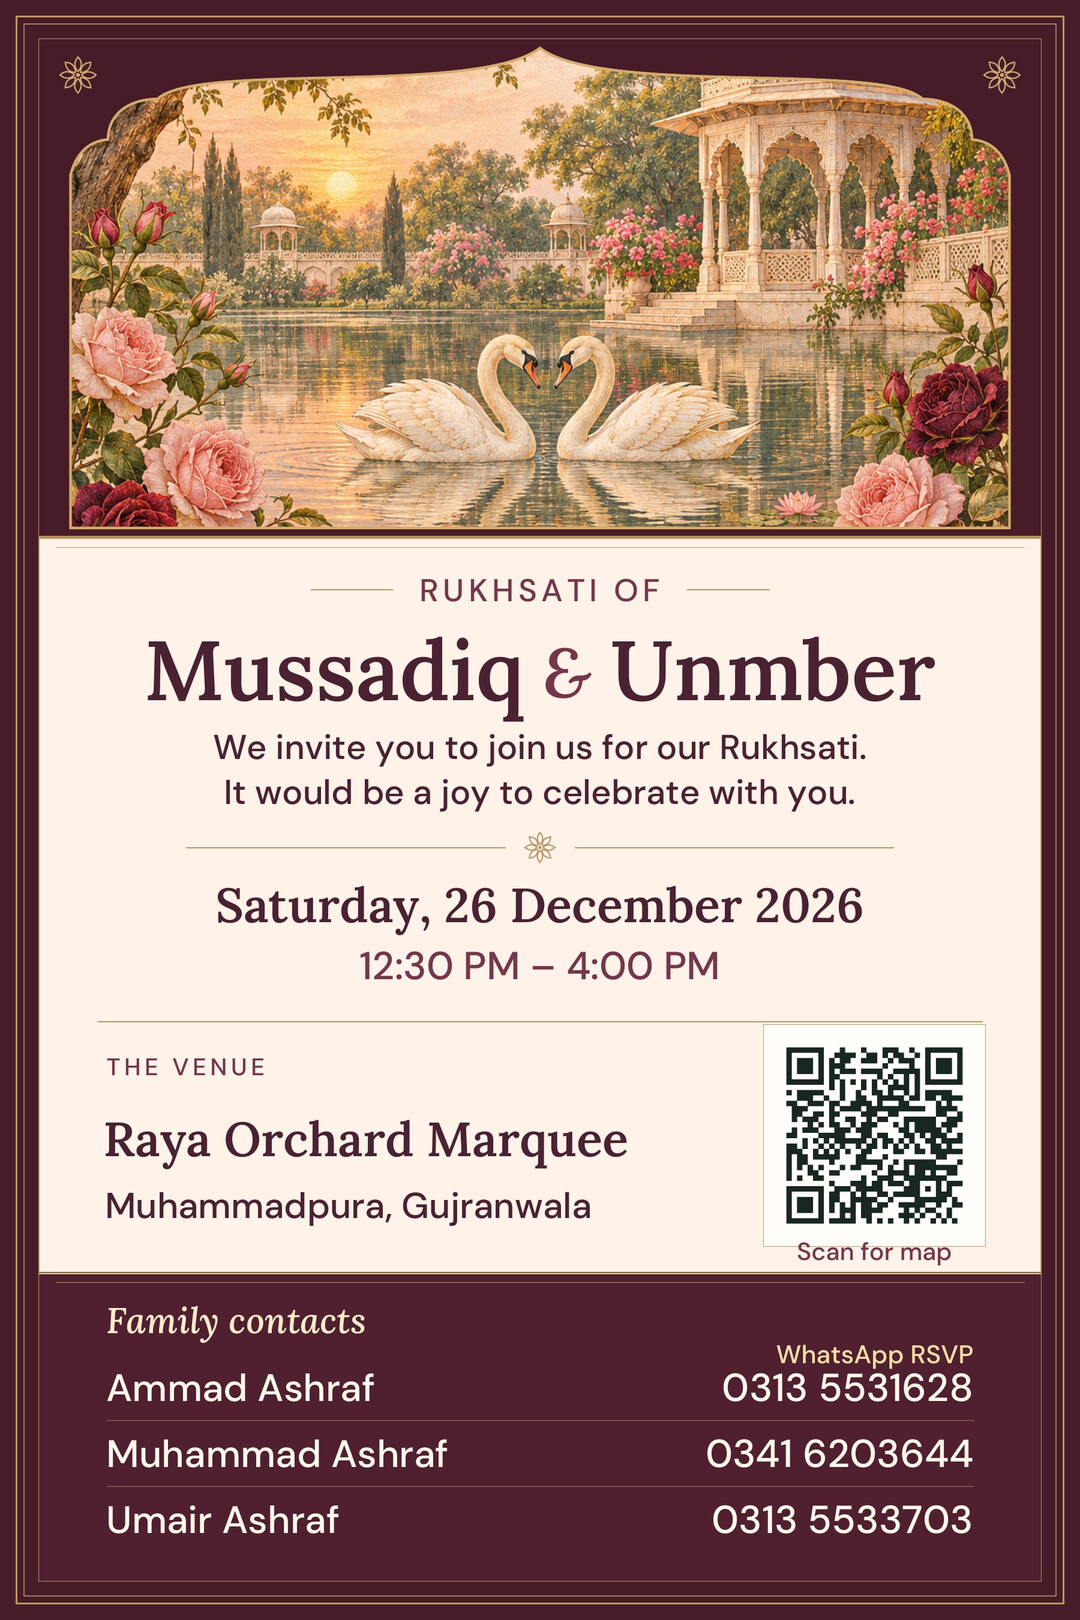
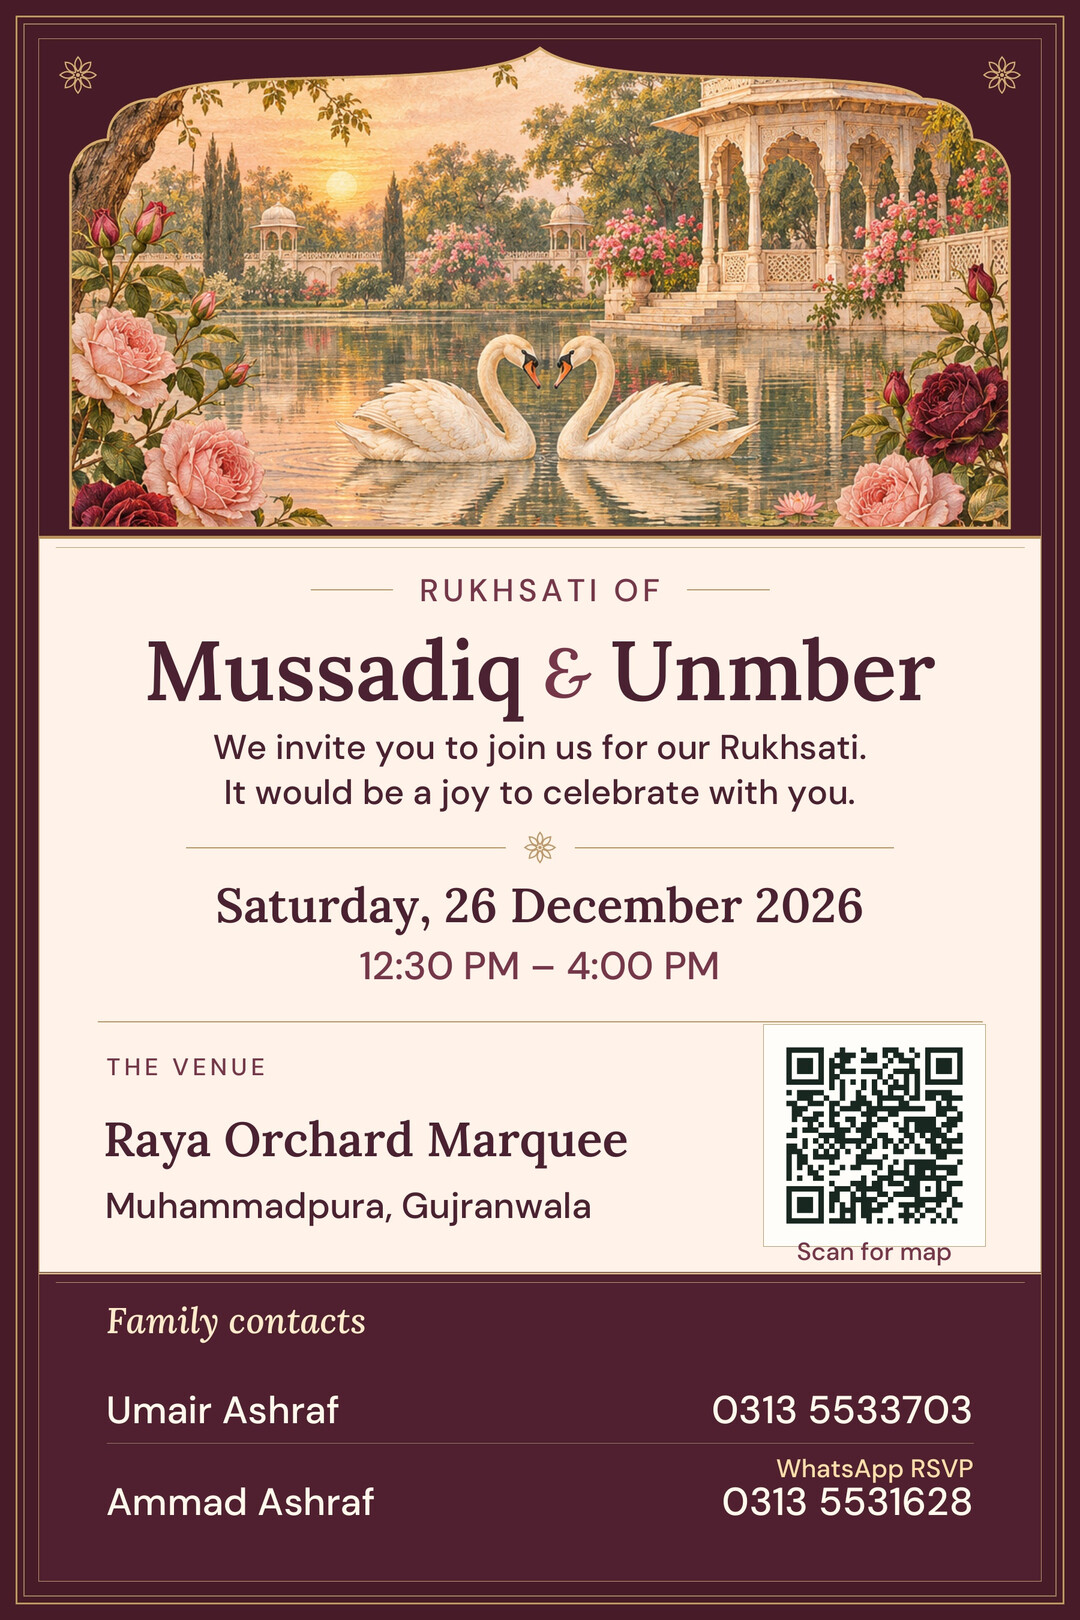
Remove dates from Walima opening, match Rukhsati lettering and update family contacts

Changed region(s): [[0.0917, 0.8333, 0.4278, 0.9568], [0.6417, 0.8333, 0.9167, 0.9568]]

diff --git a/floral.css b/floral.css
@@ -68,7 +68,7 @@ body { font-family: var(--sans) }
   transform-origin: center top;
 }
 .envelope-letter span { font: italic 500 18px var(--serif) }
-.envelope-letter b { font: 650 clamp(22px,6vw,34px)/1.12 var(--serif) }
+.envelope-letter b { font: italic 560 clamp(22px,6vw,34px)/1.12 var(--serif) }
 .seal-hit {
   position: absolute;
   z-index: 4;
@@ -106,14 +106,9 @@ body { font-family: var(--sans) }
 .envelope-title {
   color: #fff1d7;
   text-shadow: 0 2px 10px #062019;
-  font: 600 clamp(23px,6.5cqw,34px)/1.12 var(--serif);
+  font: italic 560 clamp(24px,6.6cqw,34px)/1.16 var(--serif);
 }
 .envelope-title i { color: #ffce8c }
-.envelope-date {
-  color: #ffdfaa;
-  text-shadow: 0 2px 8px #062019;
-  font: 620 clamp(14px,3.55vw,16px)/1.25 var(--sans);
-}
 .cover .tap-caption {
   position: static;
   display: inline-flex;
@@ -216,7 +211,7 @@ body { font-family: var(--sans) }
 .invitation .hero-words { top: 18%; left: 10%; right: 10% }
 .invitation .hero h1, .section-title, .arch-letter .section-title, .closing .section-title, .countdown .section-title {
   font-family: var(--serif);
-  font-weight: 650;
+  font-weight: 590;
   -webkit-text-stroke: 0;
 }
 .invitation .hero h1 { font-size: clamp(42px,11vw,64px); line-height: .95; letter-spacing: -.035em; margin-top: 10px }
@@ -229,8 +224,9 @@ body { font-family: var(--sans) }
 .date-section, .reception { background: #fff5e6 }
 .date-section .instruction, .letter-copy, .venue address { font: 520 1rem/1.58 var(--sans) }
 .date-section .section-title, .arch-letter .section-title, .closing .section-title, .countdown .section-title, .venue h2 {
-  font-size: clamp(29px,8vw,45px);
-  letter-spacing: -.033em;
+  font-size: clamp(25px,6.7cqw,34px);
+  line-height: 1.19;
+  letter-spacing: -.022em;
 }
 .signature { font: italic 600 clamp(19px,5.5vw,28px)/1.2 var(--serif); -webkit-text-stroke: 0; color: var(--rose) }
 .countdown { background: var(--pine) }
@@ -246,7 +242,6 @@ body { font-family: var(--sans) }
 @media (orientation:landscape) and (max-height:500px) {
   .envelope-caption { top:61%; gap:4px }
   .envelope-title { font-size:clamp(13px,5vh,22px) }
-  .envelope-date { display: none }
 }
 @media (prefers-reduced-motion:reduce) {
   .butterfly { display:none }
@@ -266,20 +261,13 @@ body { font-family: var(--sans) }
   max-height: none;
 }
 .walima .hero-words { top: 19%; left: 8%; right: 8% }
-.walima .hero-intro { font: italic 590 clamp(23px,6.1cqw,31px)/1.18 var(--serif) }
+.walima .hero-intro { font: italic 570 clamp(24px,6.6cqw,34px)/1.16 var(--serif) }
 .walima .hero h1 {
-  font-size: clamp(45px, min(14.2cqw, 9.35svh), 74px);
-  line-height: .96;
+  font: italic 560 clamp(40px,min(13.5cqw,9.45svh),70px)/1.03 var(--serif);
+  letter-spacing: -.035em;
   margin-top: .25em;
 }
-.walima .hero-and { margin: .27em auto; font-size: .45em }
-.hero-dateline {
-  margin: 1.15em auto 0;
-  color: #3b4937;
-  font: 650 clamp(13px, 3.5cqw, 16px)/1.4 var(--ui-font);
-  letter-spacing: .015em;
-  font-variant-numeric: lining-nums;
-}
+.walima .hero-and { margin: .27em auto; font: italic 400 .39em/1 var(--serif) }
 .date-grid { max-width: 395px; gap: clamp(9px, 3cqw, 15px) }
 .tile { border-radius: 8px; box-shadow: 0 3px 7px #73502829, inset 0 0 0 3px #fff4d7 }
 .date-value { font-variant-numeric: lining-nums }
@@ -326,3 +314,5 @@ body { font-family: var(--sans) }
   .walima .hero { height: clamp(420px,125vw,800px) }
   .walima .hero h1 { font-size: clamp(43px,13cqw,64px) }
 }
+
+.walima .letter-copy, .walima .venue address, .walima .attendance p { font: 500 clamp(1rem,4.35cqw,1.16rem)/1.55 var(--serif) }

diff --git a/rukhsati/index.html b/rukhsati/index.html
@@ -88,7 +88,6 @@
     <section class="panel flowers contact" id="contacts">
       <h2>Family Contacts</h2>
       <ul>
-        <li><a class="contact-link" href="tel:+923416203644"><span class="contact-person">Muhammad Ashraf<span>0341 6203644</span></span><span class="button-medal"><svg class="card-icon" aria-hidden="true" focusable="false"><use href="../assets/card-icons.svg#phone"/></svg></span></a></li>
         <li><a class="contact-link" href="tel:+923135533703"><span class="contact-person">Umair Ashraf<span>0313 5533703</span></span><span class="button-medal"><svg class="card-icon" aria-hidden="true" focusable="false"><use href="../assets/card-icons.svg#phone"/></svg></span></a></li>
         <li><a class="contact-link" href="tel:+923135531628"><span class="contact-person">Ammad Ashraf<span>0313 5531628</span></span><span class="button-medal"><svg class="card-icon" aria-hidden="true" focusable="false"><use href="../assets/card-icons.svg#phone"/></svg></span></a></li>
       </ul>
@@ -103,7 +102,7 @@
       </a>
       <p class="farewell script">Hope to see you there!<br>Mussadiq &amp; Unmber</p>
       <div class="closing-actions">
-        <a class="card-download" href="../cards/Rukhsati-Invitation.jpg" download="Rukhsati-Invitation.jpg"><svg class="card-icon" aria-hidden="true" focusable="false"><use href="../assets/card-icons.svg#download"/></svg>Save invitation image</a>
+        <a class="card-download" href="../cards/Rukhsati-Invitation.jpg?v=contacts2" download="Rukhsati-Invitation.jpg"><svg class="card-icon" aria-hidden="true" focusable="false"><use href="../assets/card-icons.svg#download"/></svg>Save invitation image</a>
         <button id="replay" class="replay" type="button"><svg class="card-icon" aria-hidden="true" focusable="false"><use href="../assets/card-icons.svg#replay"/></svg>Replay opening</button>
       </div>
     </footer>

diff --git a/index.html b/index.html
@@ -19,7 +19,7 @@
   <link rel="preload" href="assets/floral-envelope.webp?v=hd1" as="image" fetchpriority="high">
   <link rel="preload" href="assets/lora.woff2" as="font" type="font/woff2" crossorigin>
   <link rel="stylesheet" href="invitation.css?v=5">
-  <link rel="stylesheet" href="floral.css?v=reply2">
+  <link rel="stylesheet" href="floral.css?v=reveal3">
   <link rel="stylesheet" href="assets/card-controls.css?v=reply2">
   <script src="invitation.js?v=reply2" defer></script>
   <link rel="stylesheet" href="assets/reply.css?v=1">
@@ -54,7 +54,6 @@
         <span class="envelope-seal wax gold" aria-hidden="true"><span>M<i>&amp;</i>U</span></span>
         <span class="envelope-caption" aria-hidden="true">
           <span class="envelope-title">Mussadiq <i>&amp;</i> Unmber</span>
-          <time class="envelope-date" datetime="2026-12-27">Sunday, 27 December 2026</time>
           <span class="tap-caption"><svg class="card-icon" aria-hidden="true" focusable="false"><use href="assets/card-icons.svg#tap"/></svg> Tap to open</span>
         </span>
       </button>
@@ -68,7 +67,6 @@
       <picture><img class="garden-picture" src="assets/garden-phone.webp" width="887" height="1774" alt="An illustrated bride and groom walk hand in hand through a Lahore garden beneath a gilded floral arch." fetchpriority="high"></picture>
       <div class="hero-words"><p class="hero-intro">Walima of</p>
         <h1 id="couple" tabindex="-1"><span>Mussadiq</span><span class="hero-and"><i></i>&amp;<i></i></span><span>Unmber</span></h1>
-        <p class="hero-dateline"><time datetime="2026-12-27T12:00:00+05:00">27 December 2026 · 12:00 PM</time></p>
       </div>
       <span class="butterfly" aria-hidden="true"><span class="butterfly-wing"></span><span class="butterfly-wing"></span><span class="butterfly-body"></span></span>
     </section>
